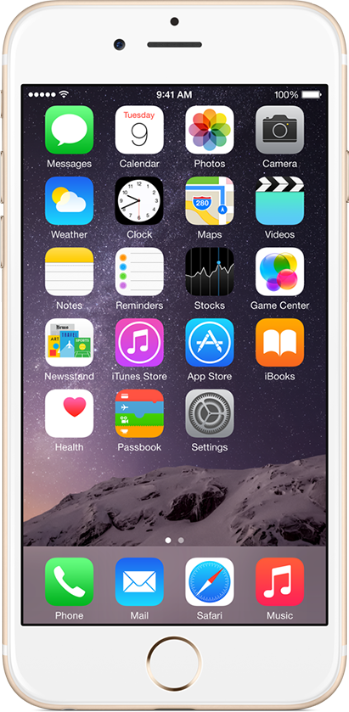
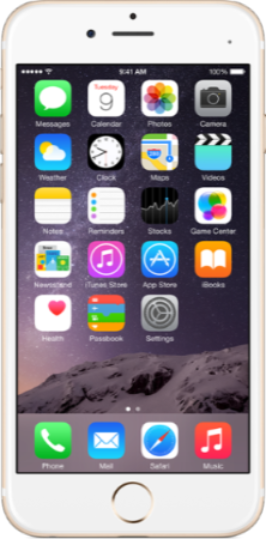
H5样式修改

diff --git a/src/app/business-shared/H5editor/editorh5.component.css b/src/app/business-shared/H5editor/editorh5.component.css
@@ -134,8 +134,8 @@ div.preview-layer .preview-bg{
 
 div.preview-layer .preview-phone{
   position: fixed;
-  width: 410px;
-  height: 840px;
+  width: 266px;
+  height: 539px;
   left: 40%;
   text-align: center;
 
@@ -337,44 +337,21 @@ input:-ms-input-placeholder{color:#FFF;font-size:14px;
 .clear-float{
   clear: both;
 }
-/*.prePhone{*/
-/*position:fixed;*/
-/*left:30%;*/
-/*right:30%;*/
 
-/*}*/
 .iframe1{
   position: fixed;
-  width: 309px;
-  height: 544px;
+  width: 236px;
+  height: 411px;
   left: 40%;
   background: white;
   text-align: center;
   z-index: 9999;
-  margin-left: 20px;
-  margin-top: 84px;
-
+  margin-left: 14px;
+  margin-top: 63px;
 }
 
-/*.editorDocument{*/
-/*!*margin:0 auto;*!*/
-/*width:100%;*/
-/*margin-left:36%;*/
-
-/*}*/
-/*.editorBtns{*/
-/*margin:0 auto;*/
-/*margin-bottom: 12%;*/
-/*margin-left: 40%;*/
-/*}*/
 .editorBtns button{
   margin-top:1px;
-  /*width:45px;*/
-  /*height:35px;*/
-  /*margin:0 20px;*/
-  /*background-color:#20a8d8;*/
-  /*color:white;*/
-
 }
 .h5Select{
   margin-bottom: 10px;

diff --git a/src/app/business/heart/hhr/hhr-chart/hhr-chart.component.ts b/src/app/business/heart/hhr/hhr-chart/hhr-chart.component.ts
@@ -225,7 +225,7 @@ export class HhrChartComponent implements OnInit {
     this.clickTime = e.name;
     this.chartDetailsId = this.dataChart1[this.dataIndex]['id'];
 
-    this.http.getHhrDataDetails(this.chartId, this.chartDetailsId).then(data => {
+    this.http.getHhrDataDetails(''+this.chartId, ''+this.chartDetailsId).then(data => {
       if (data['status'] == 'ok') {
         if (data['data']) {
           this.chartDetailsId = this.dataChart1[this.dataIndex]['id'];
@@ -270,7 +270,6 @@ export class HhrChartComponent implements OnInit {
           });
           this.isDetails = true;
           this.details_none = false;
-
         } else {
           this.isDetails = true;
           this.details_none = true;

diff --git a/src/app/business-service/api/api.service.ts b/src/app/business-service/api/api.service.ts
@@ -1071,16 +1071,18 @@ export class ApiService {
       .catch(this.handleError);
   }
 
+
   //home
   homeData(): Promise<any> {
     const url: string = '/api/admin/statistics/data';
     this.spinService.spin(true);
+    console.log('00000');
     return this.httpClient.post(url, {
       token: this.sessionStorageService.get('token'),
     })
       .toPromise()
       .then(data => {
-        console.log(data,'data');
+        console.log(data,'data00000');
         this.spinService.spin(false);
         return data;
       })

diff --git a/src/app/business-shared/H5editor/editorh5.component.ts b/src/app/business-shared/H5editor/editorh5.component.ts
@@ -86,7 +86,7 @@ const htmlL: string = "</div>\n" +
           <button class="" (click)="editBack()">返回</button>
         </div>
       </div>
-      <div class="preview-layer" [hidden]="previews" style="height: 840px; overflow: auto" (click)="noPreviews()">
+      <div class="preview-layer" [hidden]="previews" style="height: 539px; overflow: auto" (click)="noPreviews()">
         <div class="preview-bg"></div>
         <div class="preview-phone prephone">
           <iframe #iframe class="iframe1"></iframe>

diff --git a/src/app/shared/table/table-add/input/input.component.html b/src/app/shared/table/table-add/input/input.component.html
@@ -1,6 +1,6 @@
 <div [formGroup]="form" class="form-inline">
 
-    <div style="width: 240px" class="text-right" for="name">
+    <div style="width: 180px" class="text-right" for="name">
       <span *ngIf="field.required && flag==true" style="color:red;">* &nbsp;&nbsp; </span>
       <span *ngIf="field.key=='app' && flag==true" style="color:red;">* &nbsp;&nbsp; </span>
       {{field.name+":"}}&nbsp;&nbsp;&nbsp;&nbsp;&nbsp;&nbsp;

diff --git a/src/app/shared/table/table-add/table-add.component.css b/src/app/shared/table/table-add/table-add.component.css
@@ -83,7 +83,7 @@
 }
 .treeAdd {
   width: 100%;
-  margin-left: 20px;
+  margin-left: 10px;
   /*margin-top: 10px;*/
   margin-bottom: 30px;
 }
@@ -92,6 +92,7 @@
   margin-top: 183px;
   text-align: right;
   margin-right: -40px;
+  margin-bottom:10px;
 }
 /*.tableAddBorder {*/
   /*!* border: 1px solid lightgray; *!*/
